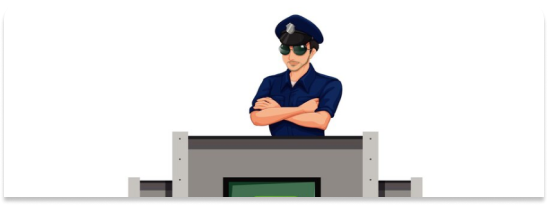
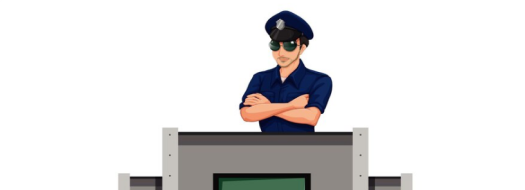
made alterations to the homepage

Changed region(s): [[0.0, 0.0526, 1.0, 1.0]]

diff --git a/src/Components/Footer.tsx b/src/Components/Footer.tsx
@@ -3,9 +3,9 @@ import { ListItem } from "@mantine/core/lib/List/ListItem/ListItem";
 import { list } from "postcss";
 import React from "react";
 import tweet from "../../public/twitter.png";
-import facebook from "../../public/facebook.png"
-import linkedin from "../../public/linkedin.png"
-import git from "../../public/git.png"
+import facebook from "../../public/facebook.png";
+import linkedin from "../../public/linkedin.png";
+import git from "../../public/git.png";
 
 let list1 = [
   {
@@ -36,32 +36,29 @@ let list2 = [
 let list3 = [
   {
     text: "Contact us",
-
   },
   {
     text: "Github",
-    icon: git.src
+    icon: git.src,
   },
   {
     text: "LinkedIn",
-    icon: linkedin.src
+    icon: linkedin.src,
   },
   {
     text: "Twitter",
-    icon: tweet.src
+    icon: tweet.src,
   },
-  
+
   {
     text: "Facebook",
-    icon: facebook.src
+    icon: facebook.src,
   },
-
 ];
-
 
 function Footer() {
   return (
-    <footer className="bg-[#3D4452] py-[100px]">
+    <footer className="bg-[#3D4452] py-[100px] px-[2rem]">
       <div className="flex flex-row justify-around gap-[20px]">
         <ul className="flex flex-col gap-[23px]">
           {list1.map((item, index) => (
@@ -80,12 +77,12 @@ function Footer() {
         </ul>
 
         {/* CONTACT US */}
-        <ul className="flex flex-col gap-[23px]">
+        <ul className="flex flex-col gap-[23px] third-col">
           {list3.map((item, index) => (
             <li key={index} className=" text-white">
               {item.icon ? (
                 <span className="flex gap-[5px] ">
-                  <img src={item.icon} alt="" className=" h-[20px]"/>
+                  <img src={item.icon} alt="" className=" h-[20px]" />
                   {item.text}
                 </span>
               ) : (
@@ -95,6 +92,16 @@ function Footer() {
           ))}
         </ul>
       </div>
+
+      <ul className="hidden  icon-ul" >
+            {
+              list3.map((item, index) =>(
+                <li key={index} style={{width:20, height: 20}}>
+                   <img src={item.icon} alt="" />
+                </li>
+              ))
+            }
+      </ul>
     </footer>
   );
 }

diff --git a/src/Components/Hereos.tsx b/src/Components/Hereos.tsx
@@ -7,17 +7,17 @@ const Hereos = () => {
   return (
     <section
       style={{ backgroundImage: `url(${hero.src}),  linear-gradient(45deg, #030303, transparent)` }}
-      className=" bg-cover bg-center mt-[70px]"
+      className=" bg-cover bg-center "
     >
 
-    <div className="w-[90%] flex justify-between  h-[400px] p-[20px] m-auto">
+    <div className="flex justify-around h-[400px] p-[20px] m-auto pt-[60px] mt-[70px]">
 
-      <div className="flex flex-col [500px]:w-full md:w-flex">
-          <h3 className="font-normal text-[52px] leading-[62px] text-[#DF181E] w-[450px]">Get help <span className="text-[#AADDF3]">at the tip of your fingers </span> <span className="text-[#EA6569]">with Nippy Response</span> </h3>
+      <div className="flex flex-col ">
+          <h3 className="font-normal text-[52px] leading-[62px] text-[#DF181E] text-left nippy-h3">Get help <span className="text-[#AADDF3]">at the tip of your fingers </span> <span className="text-[#EA6569]">with Nippy Response</span> </h3>
 
-        <p className="font-normal text-[18px] leading-[26px] text-[#ffffff] w-[460px] mt-[28px]">Get help by emergency responses and safety awareness during emergency situations (Inferno, Accidents, Robbery e.t.c)</p>
+        <p className="font-normal text-[18px] leading-[26px] text-[#ffffff]  mt-[28px] nippy-p">Get help by emergency responses and safety awareness during emergency situations (Inferno, Accidents, Robbery e.t.c)</p>
 
-        <div className="flex  gap-[36px] pt-[10px] mt-[12px]">
+        <div className="flex  gap-[36px] pt-[10px] mt-[12px] button-flex">
           <Button classNames={{
             root: "rounded-[5px] px-[47px] py-[14px] h-[43px]",
           }}  className="bg-[#BA1419] z-[1]">Get Help</Button>
@@ -28,7 +28,8 @@ const Hereos = () => {
         </div>
       </div>
 
-      <div className="align-center self-center sm:hidden md:block">
+
+      <div className="align-center heroes">
         <img src={overlay.src} alt="" />
       </div>
     </div>

diff --git a/styles/global.css b/styles/global.css
@@ -208,6 +208,10 @@
 body{
   margin: auto;
   width: 100%;
+  overflow-x: hidden;
+  background: #E3F4FB;
+  /* max-width: 1440px; */
+  /* margin: 0 auto; */
 }
 
 
@@ -217,4 +221,62 @@ ul li {
   font-weight: 400;
   font-size: 18px;
   line-height: 24px;
+}
+
+.nippy-h3{
+  font-weight: 500;
+  font-size: 1.5625rem;
+font-size: clamp(1.5625rem, 1.0803571428571428rem + 2.4107142857142856vw, 3.25rem);
+}
+
+@media only screen and (max-width: 500px) {
+  /* CSS rules for screens 500px or below go here */
+  .nippy-h3{
+    line-height: 35px;
+  }
+}
+/* 
+flex-direction: column; 
+    position: fixed;
+    top: 0;
+    z-index: 1;
+    right: 0;
+    color: black;
+    background: white; */
+
+@media only screen and (max-width: 762px){
+  .heroes{
+    display: none;
+  }
+  .nippy-h3{
+    text-align: center;
+  }
+
+  .button-flex{
+    display: flex;
+    gap: 20px;
+    margin: auto;
+  }
+
+  .nippy-p{
+    text-align: center;
+  }
+
+}
+
+@media only screen and (max-width: 766px){
+  body{
+    width: fit-content;
+  }
+  .third-col{
+    display: none;
+  }
+
+  .icon-ul{
+    display: flex;
+    justify-content: center;
+    gap: 30px;
+    margin-top: 30px;
+    /* justify-center gap-[30px] mt-[30px]  */
+  }
 }

diff --git a/src/Components/Header.tsx b/src/Components/Header.tsx
@@ -1,10 +1,14 @@
 import React, {useState} from "react";
 import logo from "../../public/nippy-logo.png";
+import Modal from "./Drawer";
+import Hamburger from "./Hamburger";
+import { useDisclosure } from "@mantine/hooks";
 
+
+export const navList = ['Home', 'About us', 'Our services', 'Contact us']
 export const Header = () => {
+  const [opened, { open, close }] = useDisclosure(false);
 
-    const navList = ['Home', 'About us', 'Our services', 'Contact us']
-    const [list, setList] = useState(0);
 
   return (
     <>
@@ -17,7 +21,7 @@ export const Header = () => {
           />
         </div>
 
-        <ul className="flex  gap-[32px] self-end justify-around">
+        <ul className="hidden  gap-[32px] self-end justify-around min-[618px]:flex">
            {navList.map((item, index) =>(
             <li key={index}>
                 {item}
@@ -26,8 +30,14 @@ export const Header = () => {
            } 
         </ul>
 
+        <Hamburger
+        openDrawer={open}
+        className="hidden max-[618px]:block"
+        
+        />
 
       </nav>
+        <Modal opened={opened} close={close} />
     </>
   );
 };

diff --git a/src/Components/GetStarted.tsx b/src/Components/GetStarted.tsx
@@ -4,13 +4,13 @@ import React from 'react'
 
 const GetStarted = () => {
   return (
-    <section className='w-[100%] mx-0 my-[78px] flex flex-col bg-white'>
+    <section className='w-[100%] mx-0 mt-[78px] flex flex-col bg-white'>
         <h2 className='font-semibold text-[48px] leading-[120%] text-center text-[#0C0C0C]'>Get Started</h2>
 
         <p className='text-[#808080] font-medium text-[18px] leading-[26px] text-center'>Get help by emergency responses and safety awareness during emergency situations (Inferno, Accidents, Robbery e.t.c)</p>
 
         {/* <button  */}
-        <Button className='bg-[#BA1419]  w-[200px] text-white m-auto mt-[27px]'>Get Help</Button>
+        <Button className='bg-[#BA1419]  w-[200px] text-white m-auto mb-[15px] mt-[27px]'>Get Help</Button>
     </section>
   )
 }

diff --git a/src/Components/Services.tsx b/src/Components/Services.tsx
@@ -79,6 +79,8 @@ const data = [
   },
 ];
 
+const service =["Fire Department", "Nearest Hospital", "Police Station", "Health Post" , "Ambulance Station"]
+
 const Services = () => {
   return (
     <>
@@ -92,10 +94,10 @@ const Services = () => {
             headingColor={item.headingColor}
             cardBackground={item.cardBackground}
             pColor ={item.pColor}
-            cols= {item.cols}
-            
+            cols= {item.cols}     
           />
         ))}
+
       </section>
     </>
   );

diff --git a/src/Components/Drawer.tsx b/src/Components/Drawer.tsx
@@ -1,0 +1,22 @@
+import { Drawer, Button, Group } from "@mantine/core";
+import { navList } from "./Header";
+
+function Modal({opened, close}) {
+
+  return (
+    <>
+      <Drawer opened={opened} onClose={close} title="Nippy Response" size="45%">
+        <ul className="flex flex-col gap-[32px]  justify-around">
+          {navList.map((item, index) => (
+            <li key={index}>{item}</li>
+          ))}
+        </ul>
+        
+      </Drawer>
+
+
+
+    </>
+  );
+}
+export default Modal;

diff --git a/src/Components/Hamburger.tsx b/src/Components/Hamburger.tsx
@@ -1,0 +1,17 @@
+import { useDisclosure } from "@mantine/hooks";
+import { Burger } from "@mantine/core";
+
+function Hamburger({ className, openDrawer }) {
+  const [opened, { toggle }] = useDisclosure(false);
+  const label = opened ? "Close navigation" : "Open navigation";
+  return (
+    <Burger
+      opened={opened}
+      onClick={openDrawer}
+      aria-label={label}
+      className={className}
+    />
+  );
+}
+
+export default Hamburger;

diff --git a/src/Components/Input.tsx b/src/Components/Input.tsx
@@ -14,4 +14,4 @@ export default Input
 
 
 // create repo push to master initial code will be on main. creata branch out of main call it developer. create a branch out of develop ansd call it hafsah.busari-dev
-// create a pull request from my branch to the develop baranch from the browser, add him as reviewer
+// create a pull request from my branch to the develop baranch from the browser, add him as reviewer git push origin develop

diff --git a/tailwind.config.js b/tailwind.config.js
@@ -5,7 +5,18 @@ module.exports = {
     "./src/**/*.{js,ts,jsx,tsx}",
   ],
   theme: {
-    extend: {},
+    extend: {
+      // screens: {
+      //   'sm': '576px',
+      //   // => @media (min-width: 576px) { ... }
+  
+      //   'md': '960px',
+      //   // => @media (min-width: 960px) { ... }
+  
+      //   'lg': '1440px',
+      //   // => @media (min-width: 1440px) { ... }
+      // },
+    },
   },
   plugins: [],
 }

diff --git a/src/Components/ImageCards.tsx b/src/Components/ImageCards.tsx
@@ -4,6 +4,9 @@ const ImageCards = (topic) => {
   return (
     <>
       <h4> Get help from <span>{topic}</span>  Department</h4>
+      <div>
+        <img src={img} alt="image" />
+      </div>
     </>
   );
 };
